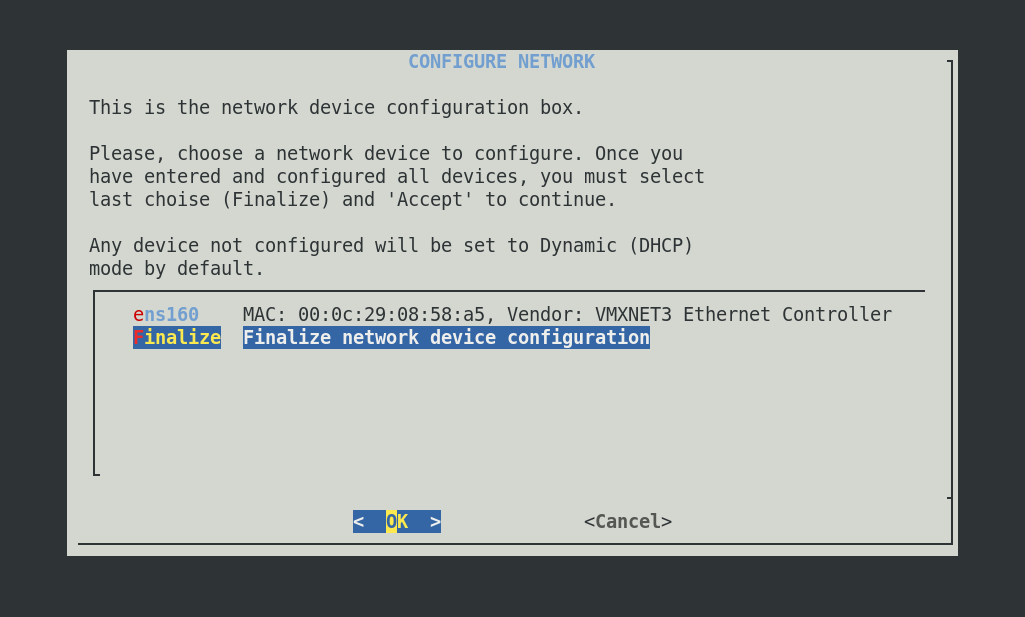
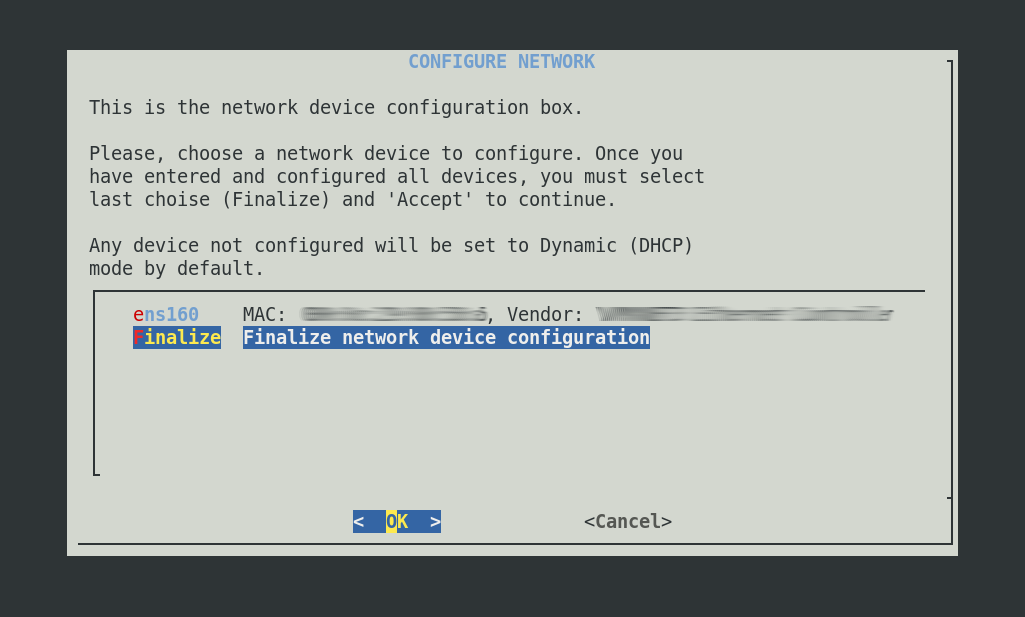
Fix in information and censored images

Changed region(s): [[0.562, 0.4927, 0.8741, 0.5235], [0.281, 0.4927, 0.4995, 0.5235]]

diff --git a/docs/chapters/redborder_basics/ch2_redborder_installation.es.md b/docs/chapters/redborder_basics/ch2_redborder_installation.es.md
@@ -40,9 +40,6 @@ Ya con los paquetes descargados e instalados, el siguiente paso es configurar Re
 
 El cual iniciará el **asistente de instalación** de la plataforma en consola para funcionar como guía durante todo el proceso.
 
-!!! warning "Importante"
-    Se debe realizar la configuración del manager desde el TTY de la máquina a configurar.
-
 ### Configuración de red
 
 En el recuadro inferior se listan las interfaces de red existentes en el equipo en cuestión. Debajo de todas las interfaces que posee el equipo, está la opción `Finalize`, que podemos seleccionar **después de haber configurado** exitosamente las interfaces.

diff --git a/docs/chapters/redborder_basics/ch2_redborder_installation.md b/docs/chapters/redborder_basics/ch2_redborder_installation.md
@@ -40,9 +40,6 @@ With the packages downloaded and installed, the next step is to configure RedBor
 
 This command will start the **installation wizard** of the platform in the console to guide you through the entire process.
 
-!!! warning "Important"
-    Manager configuration must be done from the machine's TTY.
-
 ### Network Configuration
 
 In the lower box, the existing network interfaces on the machine in question are listed. Underneath all the interfaces that the machine possesses, there is the `Finalize` option, which we can select **after successfully configuring the interfaces**.
